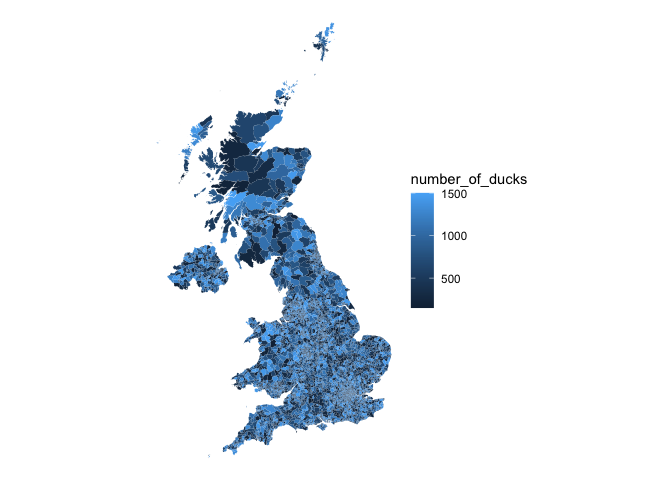
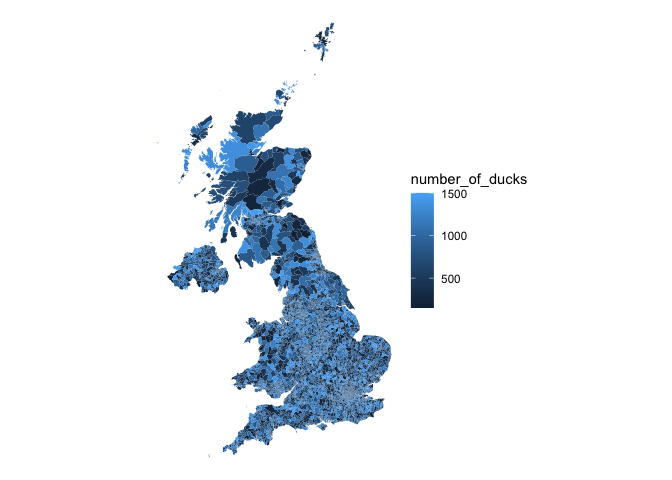
Add R map books to readme

Changed region(s): [[0.25, 0.1875, 0.5938, 0.9375], [0.4688, 0.0312, 0.5, 0.125], [0.25, 0.3438, 0.2812, 0.375]]

diff --git a/README.md b/README.md
@@ -22,7 +22,7 @@ of ducks) and plotted with packages such as `ggplot2` and `leaflet`.
 
 Current datasets are:
 
-- dec2022 (December 2022)
+-   dec2022 (December 2022)
 
 ## Installation
 
@@ -47,7 +47,7 @@ wardboundaries::dec2022
 #> Geodetic CRS:  WGS 84
 #> # A tibble: 8,483 × 14
 #>    WD22CD    WD22NM    WD22NMW LAD22CD LAD22NM  BNG_E  BNG_N  LONG   LAT OBJEC…¹
-#>  * <chr>     <chr>     <chr>   <chr>   <chr>    <int>  <int> <dbl> <dbl>   <int>
+#>    <chr>     <chr>     <chr>   <chr>   <chr>    <int>  <int> <dbl> <dbl>   <int>
 #>  1 E05000650 Astley B… " "     E08000… Bolton  370670 412906 -2.44  53.6       1
 #>  2 E05000651 Bradshaw  " "     E08000… Bolton  374590 413058 -2.39  53.6       2
 #>  3 E05000652 Breightm… " "     E08000… Bolton  374437 409641 -2.39  53.6       3
@@ -76,7 +76,7 @@ dec2022
 #> Geodetic CRS:  WGS 84
 #> # A tibble: 8,483 × 14
 #>    WD22CD    WD22NM    WD22NMW LAD22CD LAD22NM  BNG_E  BNG_N  LONG   LAT OBJEC…¹
-#>  * <chr>     <chr>     <chr>   <chr>   <chr>    <int>  <int> <dbl> <dbl>   <int>
+#>    <chr>     <chr>     <chr>   <chr>   <chr>    <int>  <int> <dbl> <dbl>   <int>
 #>  1 E05000650 Astley B… " "     E08000… Bolton  370670 412906 -2.44  53.6       1
 #>  2 E05000651 Bradshaw  " "     E08000… Bolton  374590 413058 -2.39  53.6       2
 #>  3 E05000652 Breightm… " "     E08000… Bolton  374437 409641 -2.39  53.6       3
@@ -110,16 +110,16 @@ demo_data
 #> # A tibble: 8,483 × 2
 #>    WD22CD    number_of_ducks
 #>    <chr>               <int>
-#>  1 E05000650            1214
-#>  2 E05000651             455
-#>  3 E05000652             378
-#>  4 E05000653            1102
-#>  5 E05000654             329
-#>  6 E05000655             252
-#>  7 E05000656            1083
-#>  8 E05000657            1188
-#>  9 E05000658            1063
-#> 10 E05000659             322
+#>  1 E05000650            1034
+#>  2 E05000651             750
+#>  3 E05000652             423
+#>  4 E05000653             598
+#>  5 E05000654            1129
+#>  6 E05000655            1262
+#>  7 E05000656            1093
+#>  8 E05000657             959
+#>  9 E05000658            1016
+#> 10 E05000659             705
 #> # … with 8,473 more rows
 ```
 
@@ -237,6 +237,19 @@ that explains how to work with the ONS Open Geography Portal’s API to
 get data in practice. If you have a niche interest this resource will
 help you understand how to create a specific query for your needs and
 read the data straight into R with `sf`.
+
+### R map books
+
+-   [Spatial Data Science (with applications in
+    R)](https://r-spatial.org/book/) “introduces and explains the
+    concepts underlying spatial data: points, lines, polygons, rasters,
+    coverages, geometry attributes, data cubes, reference systems, as
+    well as higher-level concepts including how attributes relate to
+    geometries and how this affects analysis”
+-   [Geocomputation with
+    R](https://geocompr.robinlovelace.net/index.html) “is for people who
+    want to analyze, visualize and model geographic data with open
+    source software”
 
 ## Credits
 
